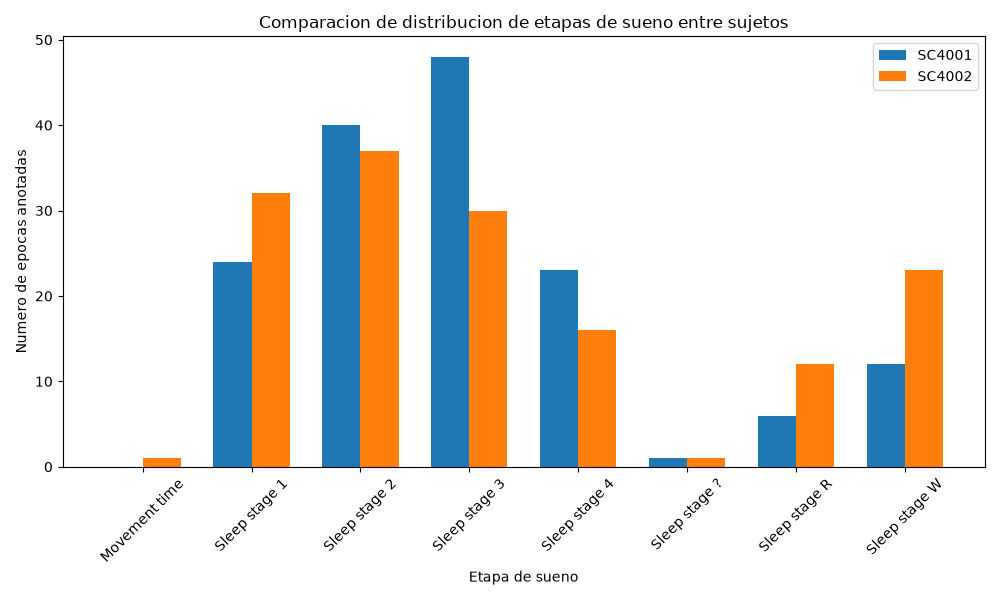
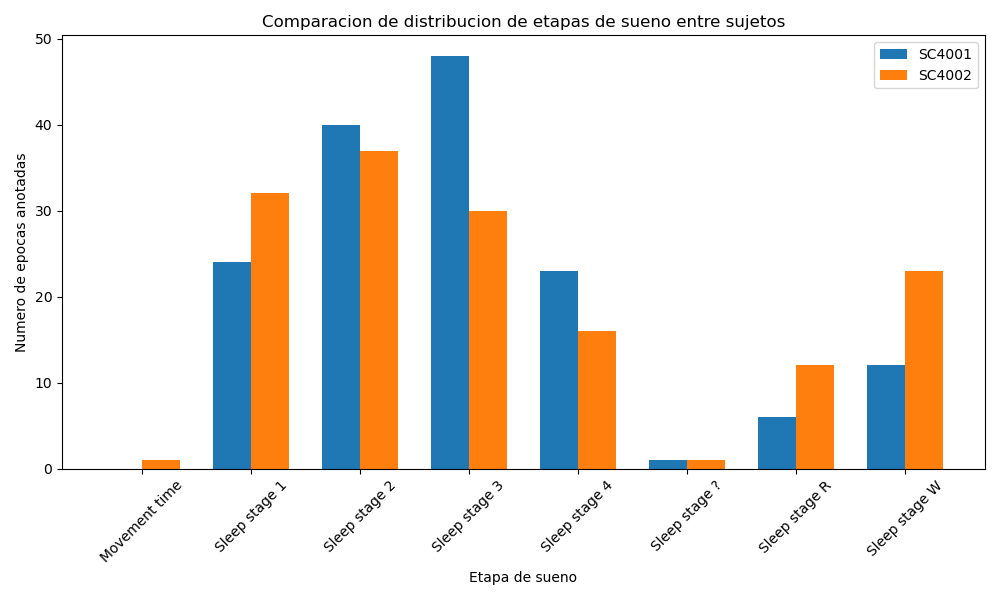
Corregir rutas de datos en script de exploracion tras la reorganizacion

diff --git a/EDA/Isabella/explorar_datos.py b/EDA/Isabella/explorar_datos.py
@@ -12,16 +12,19 @@ import matplotlib
 matplotlib.use("Agg")
 import matplotlib.pyplot as plt
 
+# Este script vive en EDA/Isabella/, por lo que los datos están dos niveles arriba
+DATA_DIR = "../../Data/sleep-cassette"
+
 SUJETOS = [
     {
         "nombre": "SC4001",
-        "psg": "data/sleep-cassette/SC4001E0-PSG.edf",
-        "hipnograma": "data/sleep-cassette/SC4001EC-Hypnogram.edf",
+        "psg": f"{DATA_DIR}/SC4001E0-PSG.edf",
+        "hipnograma": f"{DATA_DIR}/SC4001EC-Hypnogram.edf",
     },
     {
         "nombre": "SC4002",
-        "psg": "data/sleep-cassette/SC4002E0-PSG.edf",
-        "hipnograma": "data/sleep-cassette/SC4002EC-Hypnogram.edf",
+        "psg": f"{DATA_DIR}/SC4002E0-PSG.edf",
+        "hipnograma": f"{DATA_DIR}/SC4002EC-Hypnogram.edf",
     },
 ]
 
